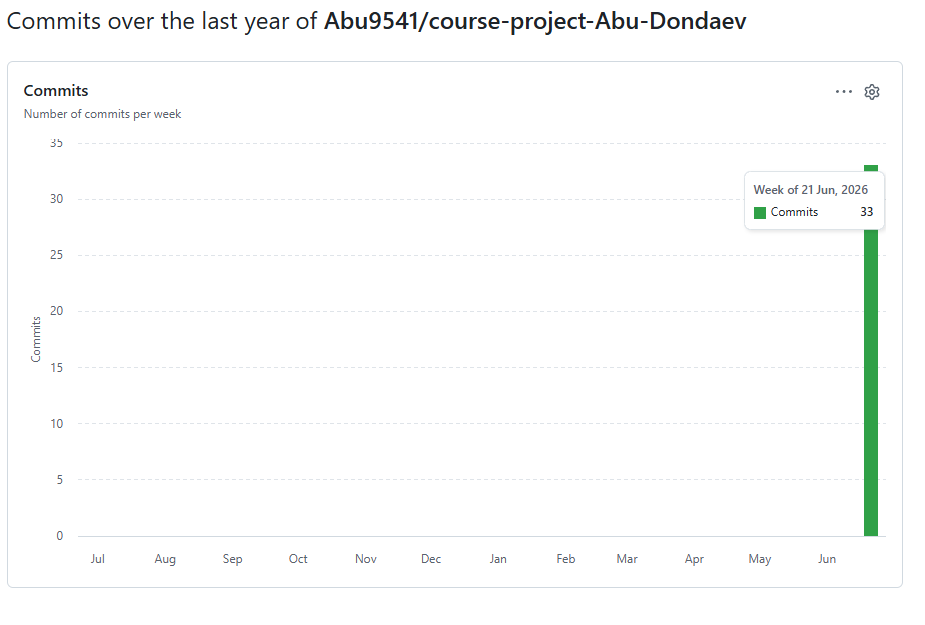
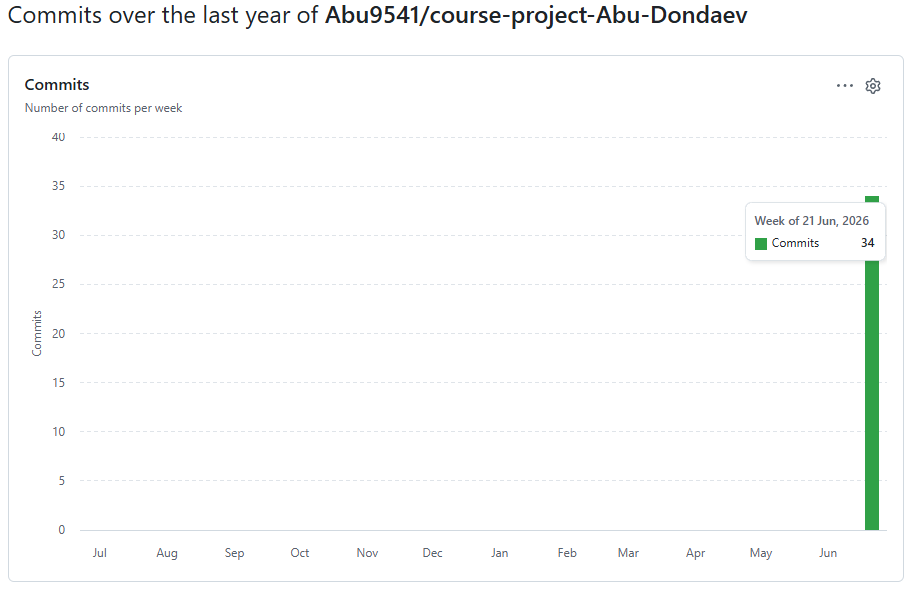
Добавлена пояснительная записка.

diff --git a/README.md b/README.md
@@ -57,7 +57,7 @@ docker compose up --build      # PostgreSQL + backend
 и статистику ниже можно проверить на вкладке **Insights** репозитория.
 
 ### Метрики Git
-- Всего коммитов: 34
+- Всего коммитов: 35
 - Период разработки: 10.02.2026 – 23.06.2026
 
 ### Активность коммитов